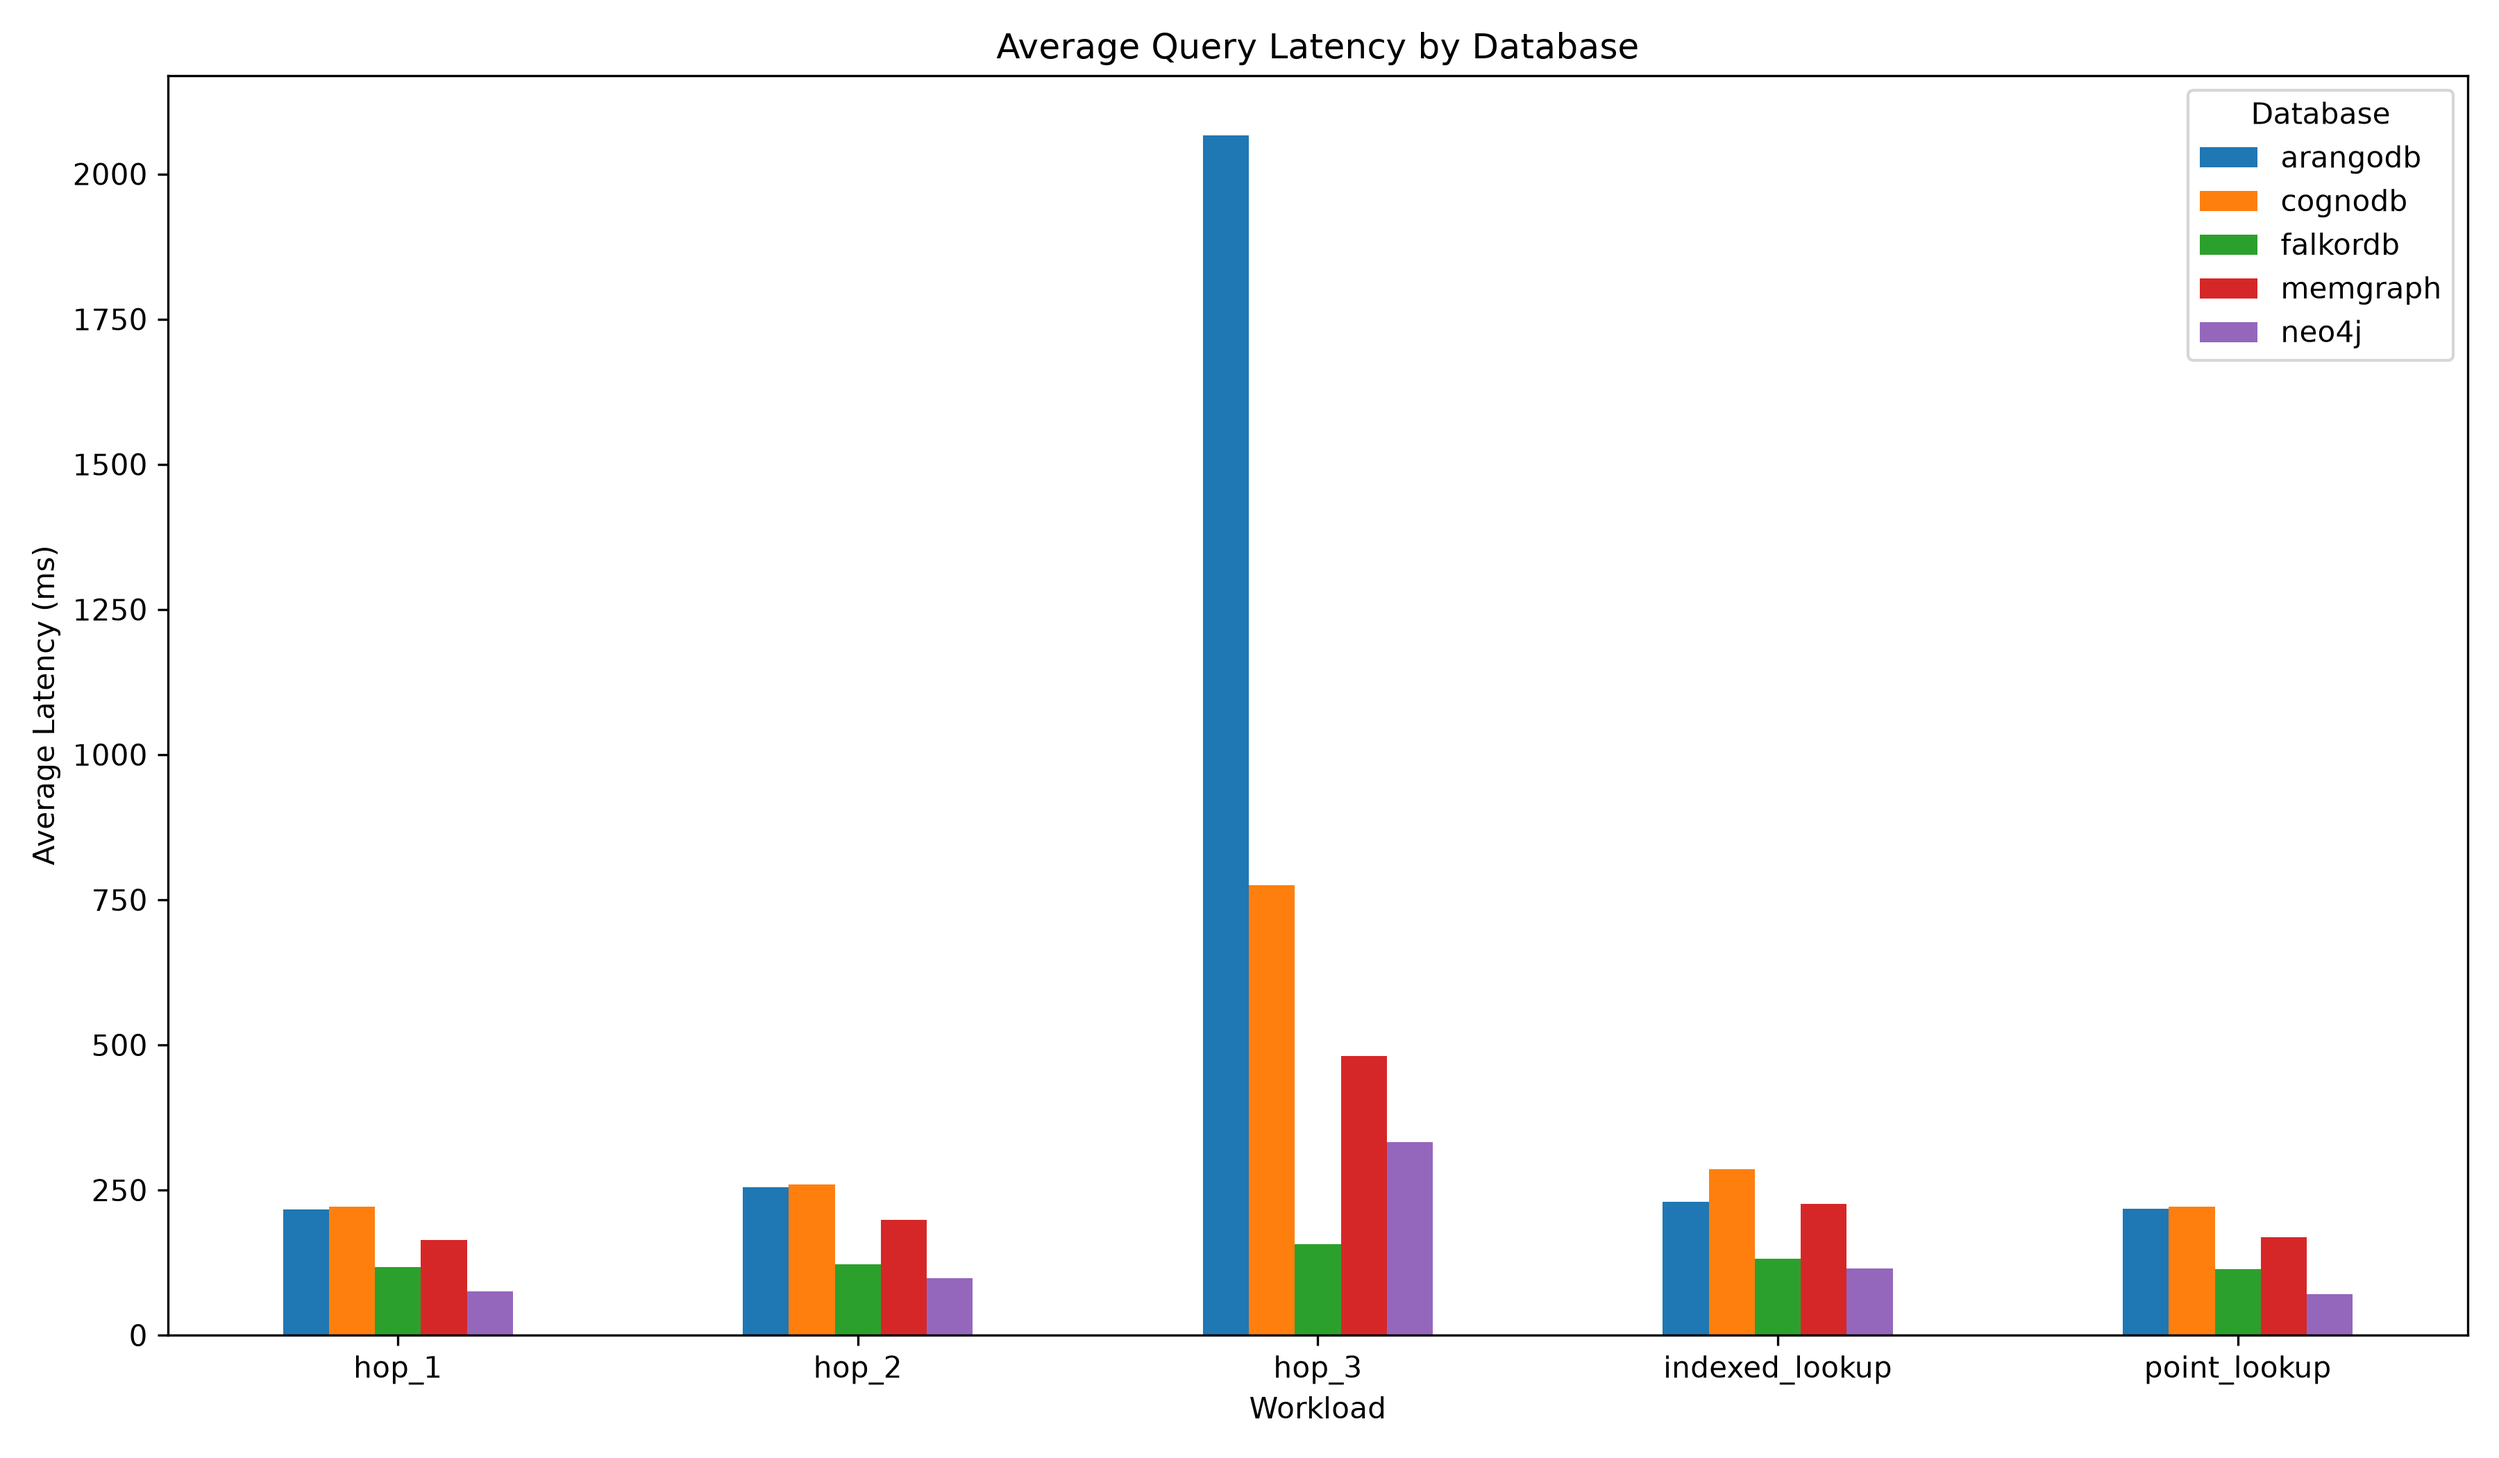
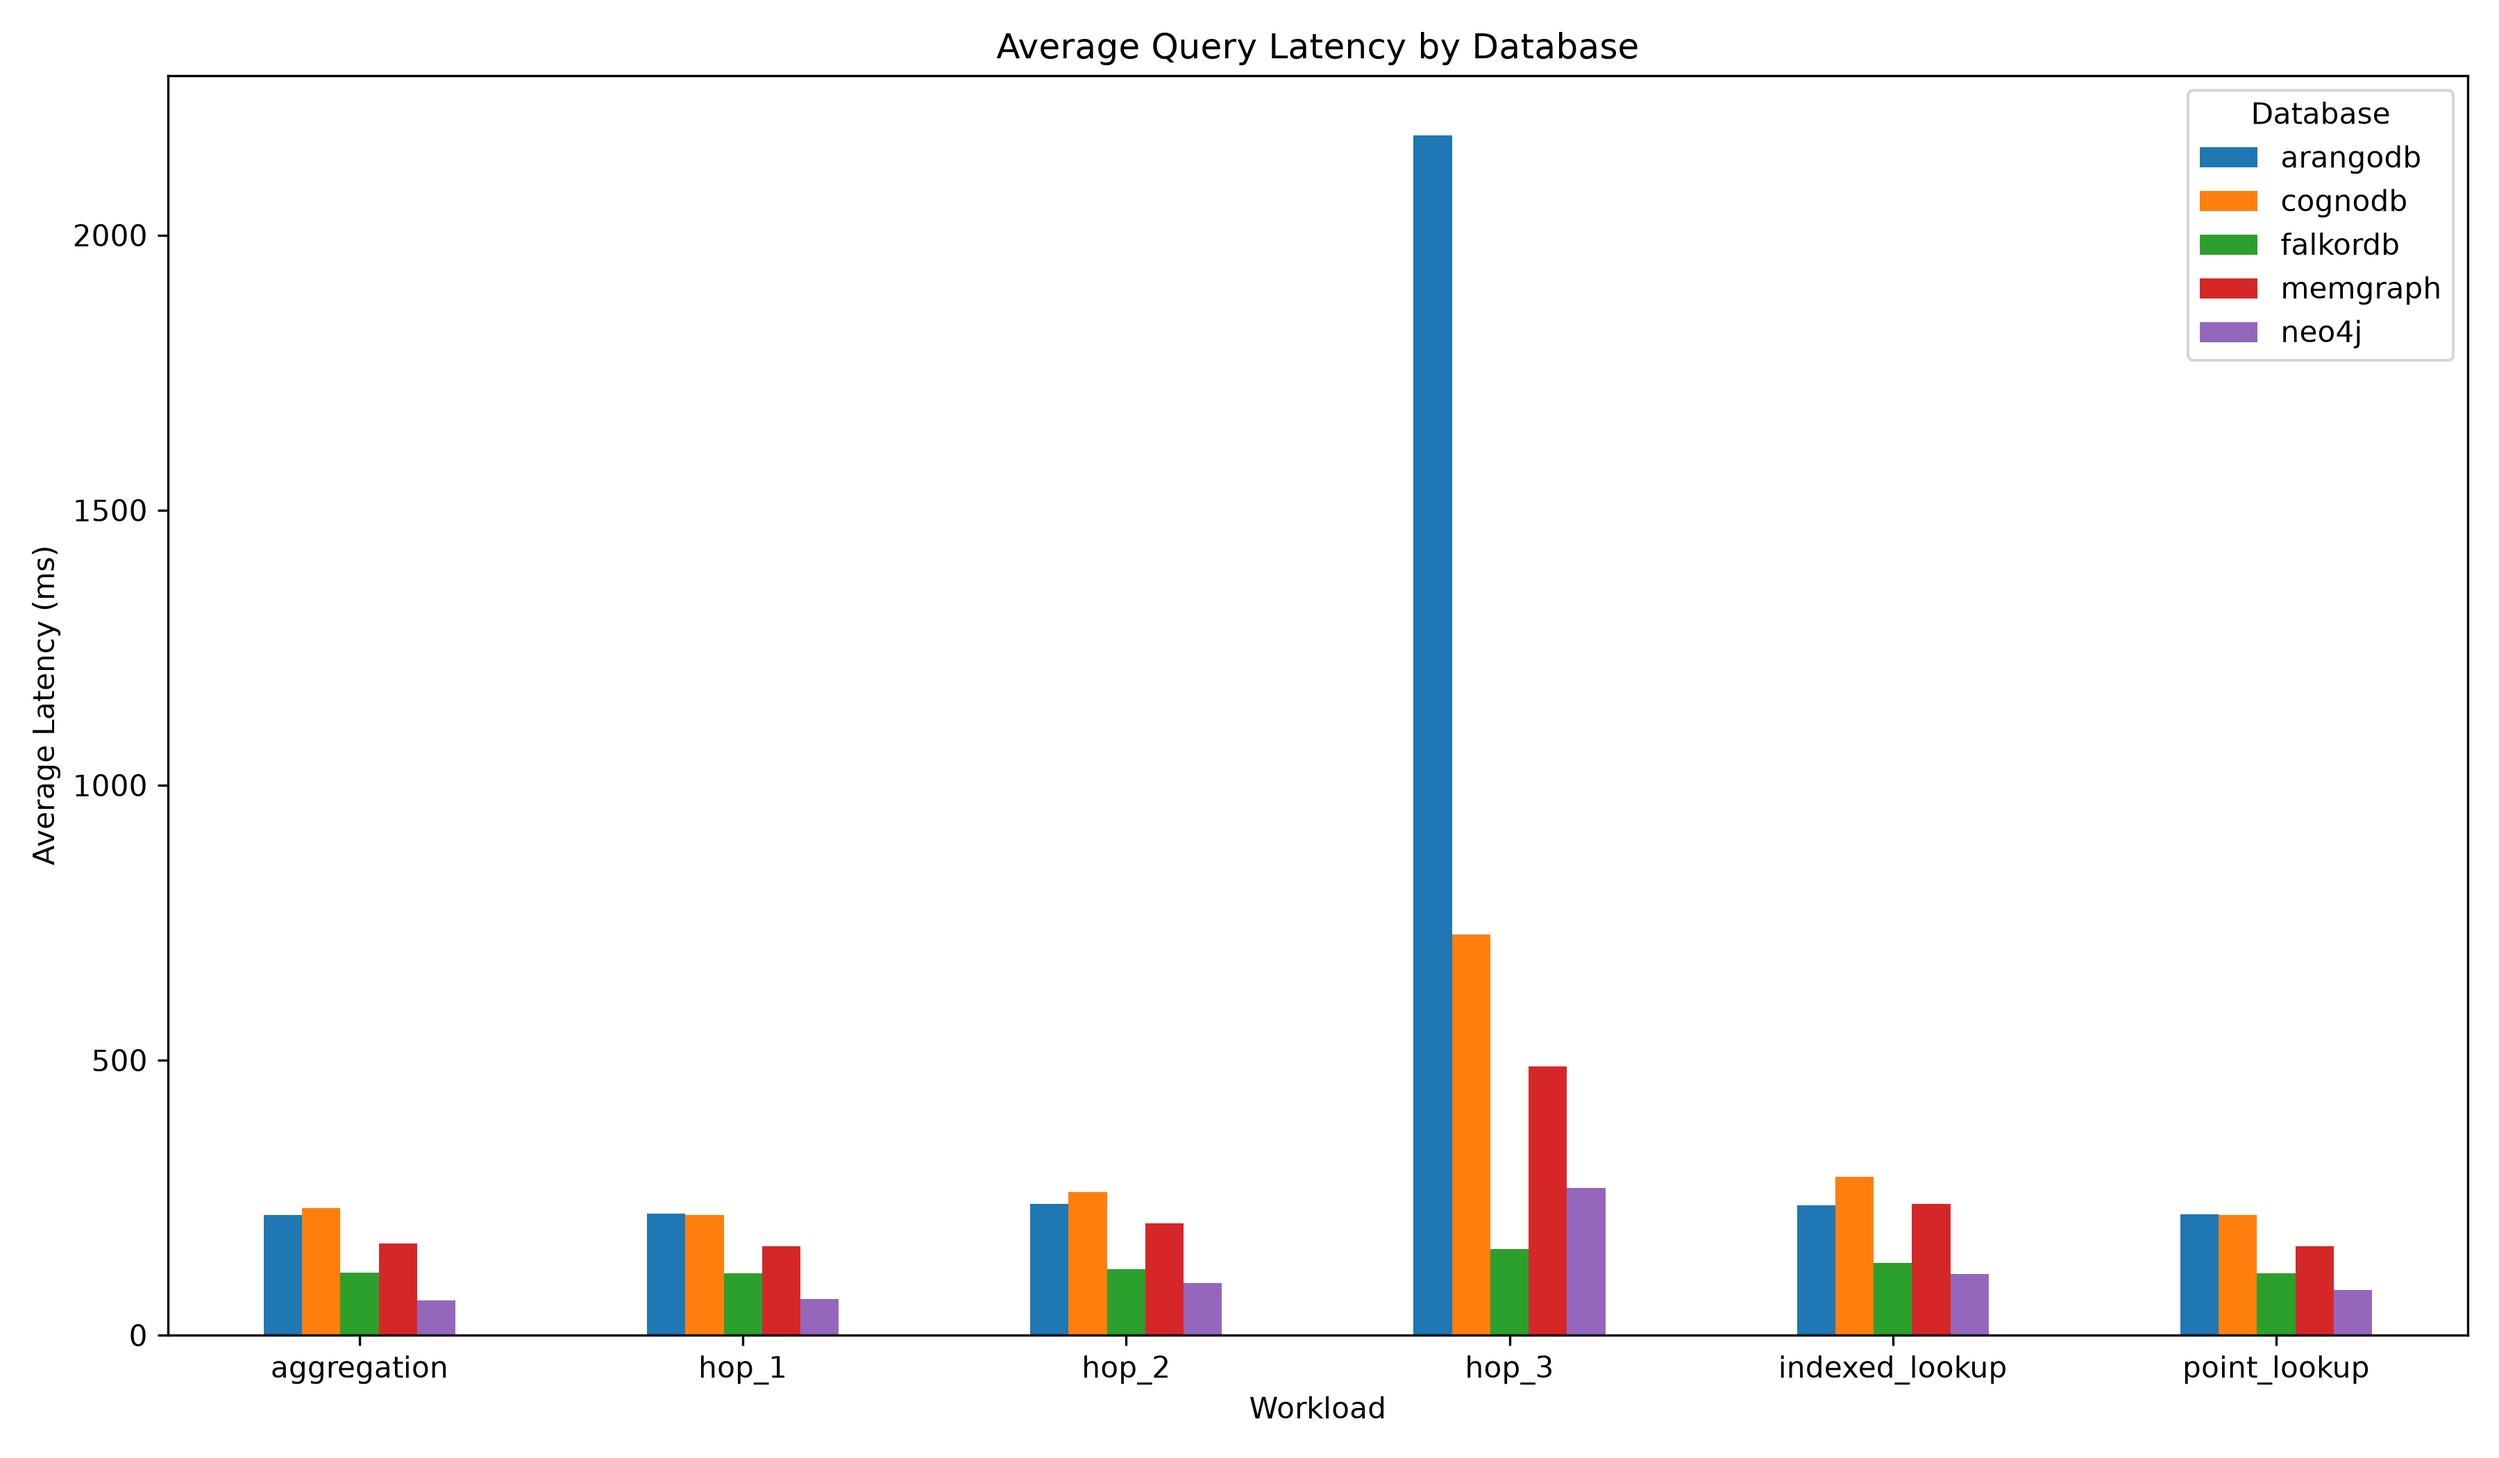
Add aggregation results

diff --git a/scripts/plot_results.py b/scripts/plot_results.py
@@ -1,37 +1,55 @@
+import os
+
 import pandas as pd
 import matplotlib.pyplot as plt
 
 
 INPUT_FILE = "results/benchmark_summary.csv"
-OUTPUT_FILE = "results/charts/benchmark_average_latency.png"
+AVERAGE_OUTPUT_FILE = "results/charts/benchmark_average_latency.png"
+P95_OUTPUT_FILE = "results/charts/benchmark_p95_latency.png"
 
 
 def main():
     df = pd.read_csv(INPUT_FILE)
+    os.makedirs("results/charts", exist_ok=True)
 
-    pivot = df.pivot(
-        index="workload",
-        columns="database",
-        values="average_ms"
-    )
+    for metric, output_file, title, ylabel in [
+        (
+            "average_ms",
+            AVERAGE_OUTPUT_FILE,
+            "Average Query Latency by Database",
+            "Average Latency (ms)",
+        ),
+        (
+            "p95_ms",
+            P95_OUTPUT_FILE,
+            "P95 Query Latency by Database",
+            "P95 Latency (ms)",
+        ),
+    ]:
+        pivot = df.pivot(
+            index="workload",
+            columns="database",
+            values=metric
+        )
 
-    ax = pivot.plot(
-        kind="bar",
-        figsize=(12, 7)
-    )
+        ax = pivot.plot(
+            kind="bar",
+            figsize=(12, 7)
+        )
 
-    ax.set_title("Average Query Latency by Database")
-    ax.set_xlabel("Workload")
-    ax.set_ylabel("Average Latency (ms)")
+        ax.set_title(title)
+        ax.set_xlabel("Workload")
+        ax.set_ylabel(ylabel)
 
-    plt.xticks(rotation=0)
-    plt.legend(title="Database")
-    plt.tight_layout()
+        plt.xticks(rotation=0)
+        plt.legend(title="Database")
+        plt.tight_layout()
 
-    plt.savefig(OUTPUT_FILE, dpi=300)
-    plt.show()
+        plt.savefig(output_file, dpi=300)
+        plt.close()
 
-    print(f"Chart saved to: {OUTPUT_FILE}")
+        print(f"Chart saved to: {output_file}")
 
 
 if __name__ == "__main__":

diff --git a/README.md b/README.md
@@ -280,7 +280,7 @@ These results should be interpreted within the specific benchmark environment, d
 
 All five databases have 100 successful iterations for every executed workload, with zero failed iterations. The benchmark uses 100 measured iterations, 30 warmup iterations, the same dataset, and the same workload definitions.
 
-Aggregation is not part of the current benchmark configuration and does not have results in `results/all_results.json`.
+Aggregation is included in the current benchmark configuration and has results for all five databases in `results/all_results.json`.
 
 ### Results Processing
 
@@ -303,3 +303,5 @@ Complete outputs are generated by `scripts/compare_benchmarks.py`:
 ### Benchmark Visualization
 
 ![Database Benchmark Comparison](results/charts/benchmark_average_latency.png)
+
+![P95 Database Benchmark Comparison](results/charts/benchmark_p95_latency.png)
